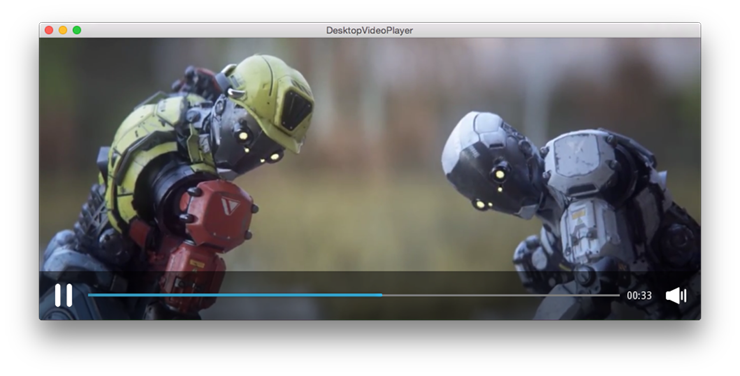
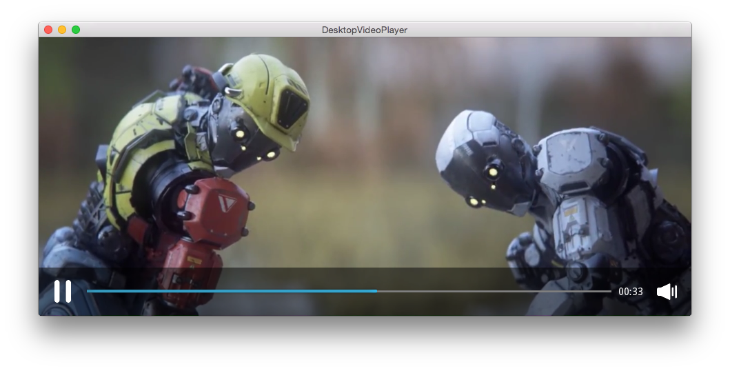
handle space bar

diff --git a/desktop_video_player.py b/desktop_video_player.py
@@ -49,8 +49,8 @@ class DesktopVideoPlayer(RelativeLayout):
         self._update_play_btn_image()
         self._update_volume_btn_image()
 
-
         Clock.schedule_interval(partial(self.check_mouse_hover), 0.1)
+        Window.bind(on_key_down=self.on_key_down)
 
         # self.video.bind(duration=self.setter('duration'),
         #                 position=self.setter('position'),
@@ -127,6 +127,11 @@ class DesktopVideoPlayer(RelativeLayout):
 
     def on_source(self, obj, value):
         self._video.source = value.encode('utf8')
+
+    def on_key_down(self, *args):
+        keycode = args[1]
+        if keycode == 32:
+            self.toggle_video()
 
     def _get_play_image(self):
         return os.path.join(_path, ("imgs/play.png" if self._video is None or (self._video and (self._video.state == 'pause' or self._video.state == 'stop')) else "imgs/pause.png"))

diff --git a/README.md b/README.md
@@ -6,10 +6,10 @@ Alternative video player designed to work well with desktop applications.
 
 ## Features
 
-- Supports all formats as the default [uix.video](http://kivy.org/docs/api-kivy.uix.video.html) component
+- Based on the default [uix.video](http://kivy.org/docs/api-kivy.uix.video.html) component
 - Controls (including volume) show on mouse hover
 - Togglable time label with elapsed/remaining times
-- Play/pause on mouse click
+- Play/pause on mouse click or space bar pressed
 - (planned) Context menu on right mouse click
 - (planned) `ffmpeg` integration to capture screenshots
 - (planned) Detailed information about the video
